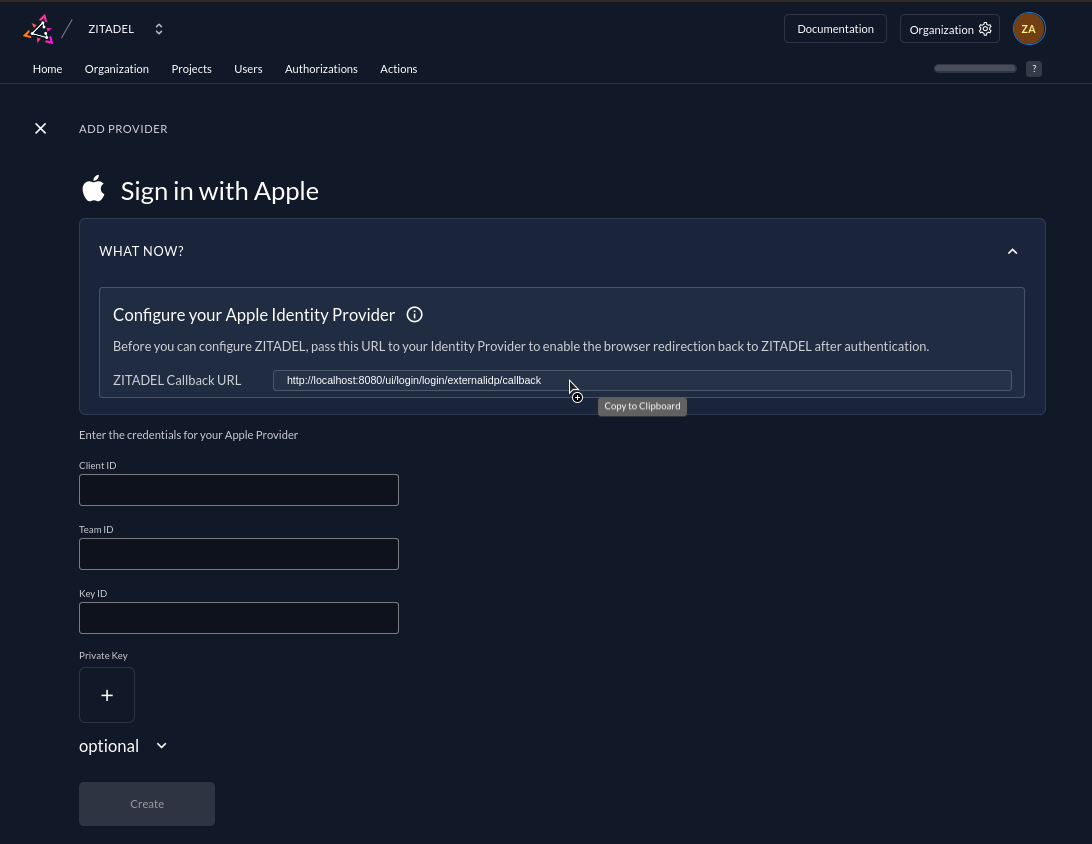
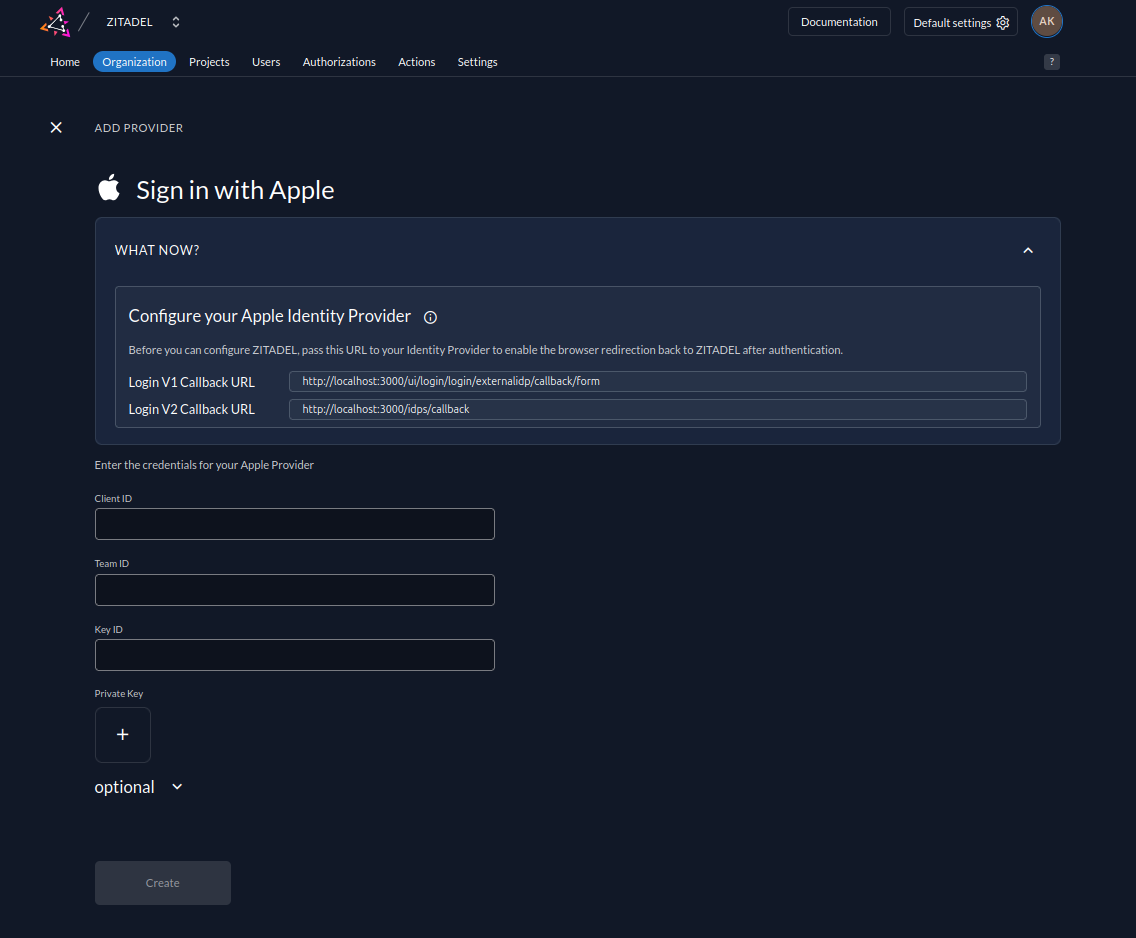
fix(ui/auth): display correct Apple sign-in callback URL (#11439)
# Which Problems Are Solved

- Apple Sign-In uses a Form Post method to return the authorization
response, which ZITADEL handles at a specific endpoint ending in /form
for the login v1.
- The Console previously displayed the standard callback URL (without
`/form`), causing confusion and configuration errors..

# How the Problems Are Solved

- **Console**: Updated ProviderNextService to accept a suffix string . 
- **Console**: Updated ProviderAppleComponent to append the suffix to
the urls.

# Additional Changes
- Updated `docs/docs/guides/integrate/identity-providers/apple.mdx` to
explicitly state that the callback URL end with `/form`
- Updated `docs/docs/guides/integrate/login-ui/external-login.mdx` to
clarify the `/form` suffix requirement for Apple Sign-In in the hosted
login documentation.
# Additional Context
- fixes #11438

---------

diff --git a/console/src/app/modules/providers/provider-next/provider-next.service.ts b/console/src/app/modules/providers/provider-next/provider-next.service.ts
@@ -80,12 +80,12 @@ export class ProviderNextService {
     );
   }
 
-  callbackUrls(): Observable<CopyUrl[]> {
+  callbackUrls(formPost: boolean = false): Observable<CopyUrl[]> {
     return this.env.env.pipe(
       map((env) => [
         {
           label: 'Login V1 Callback URL',
-          url: `${env.issuer}/ui/login/login/externalidp/callback`,
+          url: `${env.issuer}/ui/login/login/externalidp/callback${formPost ? '/form' : ''}`,
         },
         {
           label: 'Login V2 Callback URL',

diff --git a/console/src/app/modules/providers/provider-apple/provider-apple.component.ts b/console/src/app/modules/providers/provider-apple/provider-apple.component.ts
@@ -72,7 +72,7 @@ export class ProviderAppleComponent {
     this.service$,
   );
   public expandWhatNow$ = this.nextSvc.expandWhatNow(this.id$, this.activateLink$, this.justCreated$);
-  public copyUrls$ = this.nextSvc.callbackUrls();
+  public copyUrls$ = this.nextSvc.callbackUrls(true);
 
   constructor(
     private authService: GrpcAuthService,
